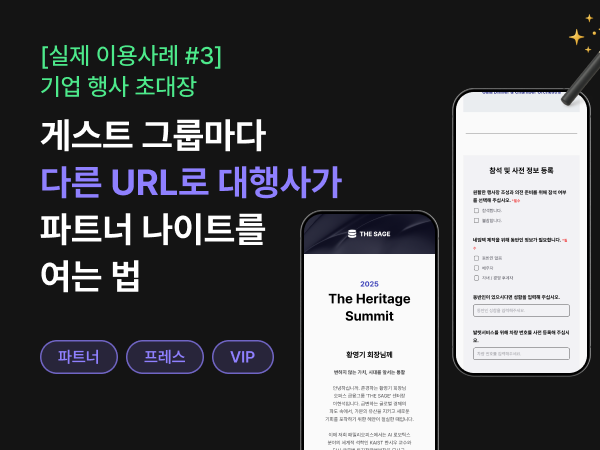
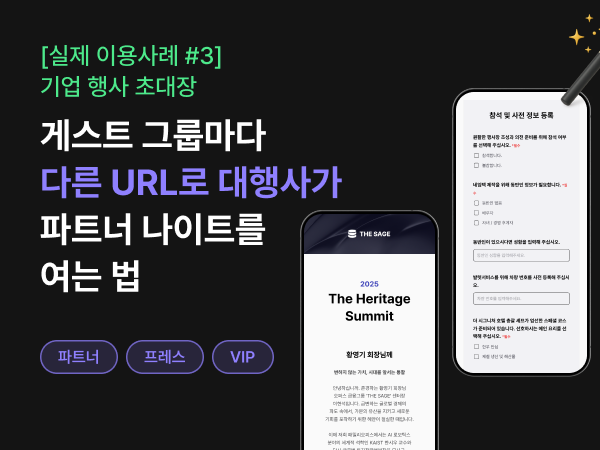
vault backup: 2026-09-02 13:14:19

Changed region(s): [[0.78, 0.5289, 0.96, 0.8089], [0.78, 0.2489, 0.96, 0.4978], [0.81, 0.1867, 0.93, 0.2178]]

diff --git a/1. 블로그/1-1. 썸네일/1-1-5. 제작 내역/2026-09-02 이용사례03 기업 행사 초대장 그룹별 URL.md b/1. 블로그/1-1. 썸네일/1-1-5. 제작 내역/2026-09-02 이용사례03 기업 행사 초대장 그룹별 URL.md
@@ -1,0 +1,122 @@
+---
+type: 제작 내역
+글: "[실제 이용사례 #3] 기업 행사 초대장 — 게스트 그룹마다 다른 URL로 대행사가 파트너 나이트를 여는 법"
+wix: https://manage.wix.com/dashboard/4667b508-705f-4c74-a3f0-a75613760afa/blog/0f65e45e-892c-47ad-855a-a90594f5170d/edit
+figma_file: qRFc2HpQ4Mp562LQMB8BX0
+figma_section: "1232:3038"
+날짜: 2026-09-02
+상태: 썸네일 6안 제시(선택 대기) · 본문 5장 제작 완료 · Wix 반영 대기
+---
+
+# 2026-09-02 · [실제 이용사례 #3] 기업 행사 초대장
+
+## 0단계 — 최신 템플릿 목록 확인 (필수 규칙 이행)
+- `node discover-v2.mjs` 재실행 → **29개** (캐시와 동일, 신규 없음). 초대장 카테고리 11개.
+- 초대장 후보 4개(`prestige` / `seminar` / `gala-rsvp` / `personalized`) → **사용자 질의 → `invitation/seminar` 채택**
+  (`prestige`는 직전 RSVP 글에서 사용 → 중복 회피)
+- **소재 적중 확인**: seminar 뷰어(THE SAGE · The Heritage Summit)에 글의 3대 통증이 그대로 있음
+  → 일시(18:00~20:30) · 장소/지도(동선) · RSVP 폼(동반인·식이 알러지·발렛 차량번호·의전 상담)
+
+### 캡처 (신규)
+`capture-usecase03.mjs` / `capture-usecase03-fixed.mjs` — **430px 뷰포트 · ar 0.4643 (430×926) @DPR3**
+- 430px를 쓴 이유: 390px는 단어 중간 줄바꿈 발생(직전 글 학습)
+- 1차 균등 슬라이스 6장 → hero 3단에 넣으니 **상단 텍스트 잘림** 발견
+- → 랜드마크 y 기준 **재캡처**(`p-program` y=2016 · `p-rsvp` y=2959 · `p-venue` y=1022)로 교체
+
+## 텍스트 (사용자 확정 = A안 · em dash 기준)
+> 🔴 원문 = **`draftPost.title`** (SEO 제목 `기업 행사 초대장, 그룹별 다른 URL로 발행하는 법 — 광고 대행사 사례` 은 사용 안 함)
+
+| 슬롯 | 값 |
+|---|---|
+| SUBTITLE (Medium 24 · `#4DE98B`) | `[실제 이용사례 #3]\n기업 행사 초대장` (2줄) |
+| TITLE (Bold 36 · lh130% · 흰색) | `게스트 그룹마다\n다른 URL로 대행사가\n파트너 나이트를\n여는 법` (4줄) |
+| 강조 (퍼플 `#8F80FF`) | **둘째 줄 통째** `다른 URL로 대행사가\n` (index 9~22) |
+
+- TEXT_BLOCK `40,40` · 실측 **303×260** (규칙 상한 330 이내 ✓)
+- 타이틀이 33자로 길어 4줄 불가피 — 대신 최대 폭 303으로 눌러 목업과 세로 분리
+
+## 썸네일 6안 (4유형)
+| 안 | 노드 | 유형 | 구성 |
+|---|---|---|---|
+| T1 | `1221:3013` | **A 단일목업** | 폰 1대(표지) 200×416 우측 하단블리드 + sparkle(`easy`) 겹침 + **좌하단 그룹별 URL 3줄 리터럴**(골든세트 A1 기법) |
+| T2 | `1221:3017` | **2폰 계단** | 표지(좌하 블리드) + RSVP 폼(우상) 각 139×289 + sparkle 우상단 블리드 + 좌하단 퍼플 pill `파트너/프레스/VIP` |
+| T3 | `1221:3021` | **3폰 계단(C)** | 표지·프로그램·RSVP 3대 118폭 계단 상승 + 각 폰 위 URL 칩 `/partner /press /vip` + 좌하단 3D `marketing` |
+| T4 | `1221:3025` | **D 3D 관계** | CdBd 봉투(주, 148×179 · 채택본 `1080:7170` 클론) → **퍼플 점선 3갈래** → URL 칩 3개(부, 148×40) + sparkle 겹침 |
+| T5 | `1221:3029` | **E 배경실사** | OpenAI 리셉션(호텔 볼룸 네트워킹) 926×692 @(-33,-144) · fills 2겹(IMAGE + #000 65%) + 3D `mobile` 210 |
+| T6 | `1221:3033` | **E 배경실사** | OpenAI 갈라 디너 테이블(좌석 네임카드) 동일 딤 + 3D `reservation` 210 |
+
+- E형 TEXT_BLOCK은 `40,95`(세로 중앙) · 서브 그린/강조 퍼플 유지(흰색 전환 ❌)
+- 목업 자산 = **이미지판** `Mockup-Button(X)` `40518949…` (벡터 `338:3224` ❌) · inset = 폭×0.0288 · radius = 폭×0.1298 · h = 폭×2.0791
+- 데코 2점 세트 준수 · 3D는 `377:5070 3d Icons` 컴포넌트셋 우선
+
+## 본문 5장 (Section `1232:3038`)
+| # | 파트 | 목적·템플릿 | 노드 |
+|---|---|---|---|
+| 01 | hero (도입) | ④나열 **3단 목업 동등** `442:2890` | `1232:3039` |
+| 02 | 왜 하나의 페이지로는 삐거덕? | ④나열 **카테고라이징** `383:6048` | `1234:3038` |
+| 03 | 한 프로젝트에서 그룹별 관리 | ⑤프로세스 **개인화 URL 트리** `383:5786` | `1237:3045` |
+| 04 | 발송 채널별 도달·응답 측정 | ②강조 **페이지 통계 UI 킷 재구축** (채택본 `1080:12789` 골격) | `1240:3045` |
+| 05 | 이벤트 종료 후 정리 | ⑤프로세스 **타임라인 사이클** `536:4114` | `1243:3131` |
+
+전부 **1920×1200** 정규화.
+
+### body01 — 그룹별 카드 3단
+배지 `프레스 카드` / `파트너 카드`(중앙=표지·대표화면) / `VIP 카드` · 화면 = 프로그램 / 표지 / RSVP 폼
+클립 프레임 450×970(ar 0.4643)에 rect를 클립 크기로 resize + x,y=0 + FILL → 잘림 0
+
+### body02 — 그룹마다 다른 3가지
+`➊ 다른 시간대`(프레스 17:30 도착 `time` · 파트너 18:30 도착 `reservation`)
+`➋ 다른 동선`(프레스 취재 부스 `exhibition` · VIP 의전 라운지 `company`)
+`➌ 다른 RSVP 폼`(참석 여부 응답 `check` · 식이·알러지 확인 `food` · 차량·의전 신청 `customer service`)
+→ 3열 카드가 pill 확대로 겹쳐 **컬럼3 카드 좌표 재배치**(1280,320 / 1560,555 / 1280,745)
+
+### body03 — 카피 (템플릿 골격 유지 · 명사만 교체)
+| 슬롯 | 원본 | 이번 값 |
+|---|---|---|
+| 타이틀(70) | 고객 1명만을 위한 '개인화 마케팅' 실현 | **초대 카드 1개 → 게스트 그룹 4개 개별 URL** (수치+화살표) |
+| 기준 URL(39) | `https://cdbd.in/brand/` + `26spring` | **`https://cdbd.in/seminar/` + `26night`** (소재 템플릿 슬러그) |
+| 중간 라벨(47) | 고객별 '전용 링크’ 활성화 | **그룹별 '전용 링크’ 자동 생성** |
+| 배지(29) | 3회 방문 / VIP / 신규 고객 / 재방문 유도 | **17:30 / 18:00 / 18:30 / 19:00 도착** (4개 모두 '도착 시각' 동일 축) |
+| 이름(38) | A~D 고객 | **프레스 / VIP / 파트너 / 바이어** (익명 그룹 라벨 · 가상 실명 ❌) |
+| URL 꼬리(26) | `.....26spring/` + `01` | **`.....26night/` + `press·vip·partner·buyer`** |
+
+### body04 — 통계 화면은 캡처 ❌ → UI 킷 재구축 (§7 준수)
+- 화면 제목 `The Heritage Summit 통계 확인하기` = **폰 목업의 초대장과 동일 행사**
+- URL 생성 `2026.05.20 10:00` · 만료 `2026.06.30 (28일 남음)` (행사 2026.06.24와 앞뒤 일치)
+- 요약 카드 `URL 개수 5개` = 표 5행 · `활용율 100.0%` = `클릭 발생한 URL 5 / 총 5`
+- **파생 수치 실계산** — 클릭률 = 클릭수/페이지뷰: 24/40=60.0% · 7/35=20.0% · 11/28=39.3% · 7/18=38.9% · 6/12=50.0%
+  → 글의 **"메신저 CTR 60% · 이메일 20%"** 를 표에 그대로 재현
+- ②강조 4요소: 딤 #000 20% + 스포트라이트 퍼플 점선(전체 통계 다운로드) + 커넥터 점선 + 결과물 실선 표
+- 결과 표 컬럼 `성함/소속` → **`발송 채널`/`게스트 그룹`** 으로 교체(메신저·이메일·문자 × 파트너·프레스·VIP)
+- 커넥터가 `활용율 100.0 %` 와 겹쳐 **시작 y를 +65 이동**
+
+### body05 — 종료 클로징 3단계
+- 템플릿 4스테이지 → **3스테이지**로 축소 + 빨강(폐기) 스테이지 삭제 → 타이틀 수치도 **3단계**로 일치
+- 타이틀 `이벤트 종료 3단계 → 게스트 명단 노출 차단` (수치+화살표+성과)
+- 스텝(전부 명사+동사): `종료 직후/CSV 저장/응답 5건 받기` · `D+1/게시 중지/URL 5건 내리기` · `D+3/원본 보관/재사용본 분리`
+- 3스테이지라 휑해 **row rescale ×1.27** (스테이지 260→330) 후 재중앙정렬
+
+## 자산 imageHash (재사용 가능)
+| 자산 | imageHash | 비율 |
+|---|---|---|
+| seminar **표지** | `ce92b0e0c511704da03a13e369d426fd463504c8` | 0.4643 |
+| seminar **일시·장소(초판)** | `b1b1c1524f3d957a859552bf8d01d421deaf6e08` | 0.4643 |
+| seminar **프로그램(초판)** | `787bc4af925cf6dfcae3a0d060173f1aa1659a7d` | 0.4643 |
+| seminar **RSVP 폼(초판)** | `1e4910a14b5597c0293b50f2eede155c7569016a` | 0.4643 |
+| ⭐ seminar **프로그램(clean)** | `67f40e12d70e5c3ffc4c1597ce1eceaa27620819` | 0.4643 |
+| ⭐ seminar **RSVP 폼(clean)** | `72c477516cd6f70dc3465480f954a64a2dd57abe` | 0.4643 |
+| ⭐ seminar **일시·장소(clean)** | `85a724b7c2d1c4238f79ac59299dc4339fb7d8ee` | 0.4643 |
+| E형 배경 **파트너 나이트 리셉션** (gpt-image-1) | `c5c9a3f74ee441a8a9e0469f9d78e90a287bd519` | 1.5 |
+| E형 배경 **갈라 디너 테이블** (gpt-image-1) | `02fb98ab578f418d388b4b473ca9297ddde17b3c` | 1.5 |
+| (재사용) 폰 바디 `Mockup-Button(X)` | `40518949ffe401d00d4bc38fa3c709fe1c606104` | 0.4809 |
+| (재사용) CdBd 봉투 | `c1f6faca7b6779ad062c9077eb3df1457902ca97` + `e89b9e70c415d91575d2ae271e7d15aef6cec031` | 0.828 |
+| (재사용) CdBd 로고 | `295169fdbf86e87de08516011ee3c9d456573a21` | — |
+
+> ⚠ OpenAI 이미지 생성: `~/.claude/skills/generate-gpt-image/` 스킬이 **삭제됨** → `/tmp/genimg.py`로 직접 호출
+> (모델 `gpt-image-1` · size `1536x1024` · quality `high` · 키 `~/.config/cdbd/credentials.json`)
+
+## 남은 일
+- [ ] 썸네일 6안 중 1개 선택 → **프레임 이름 = 타이틀 본문**으로 변경 → **정확히 2x PNG(1200×900)** 로 Wix 커버 교체
+- [ ] 본문 5장 **정확히 2x PNG(3840×2400)** export → Wix 업로드 → richContent 반영
+      (현재 Wix 본문 IMAGE 노드는 hero 1개 `img03hero1` / `usecase_03_hero_v2_260825.png` = 교체 대상)
+- [ ] ⚠ Wix 편집기 탭이 열려 있으면 `MULTIPLE_USERS_EDITING_POST` (409) — 탭 닫고 PATCH
